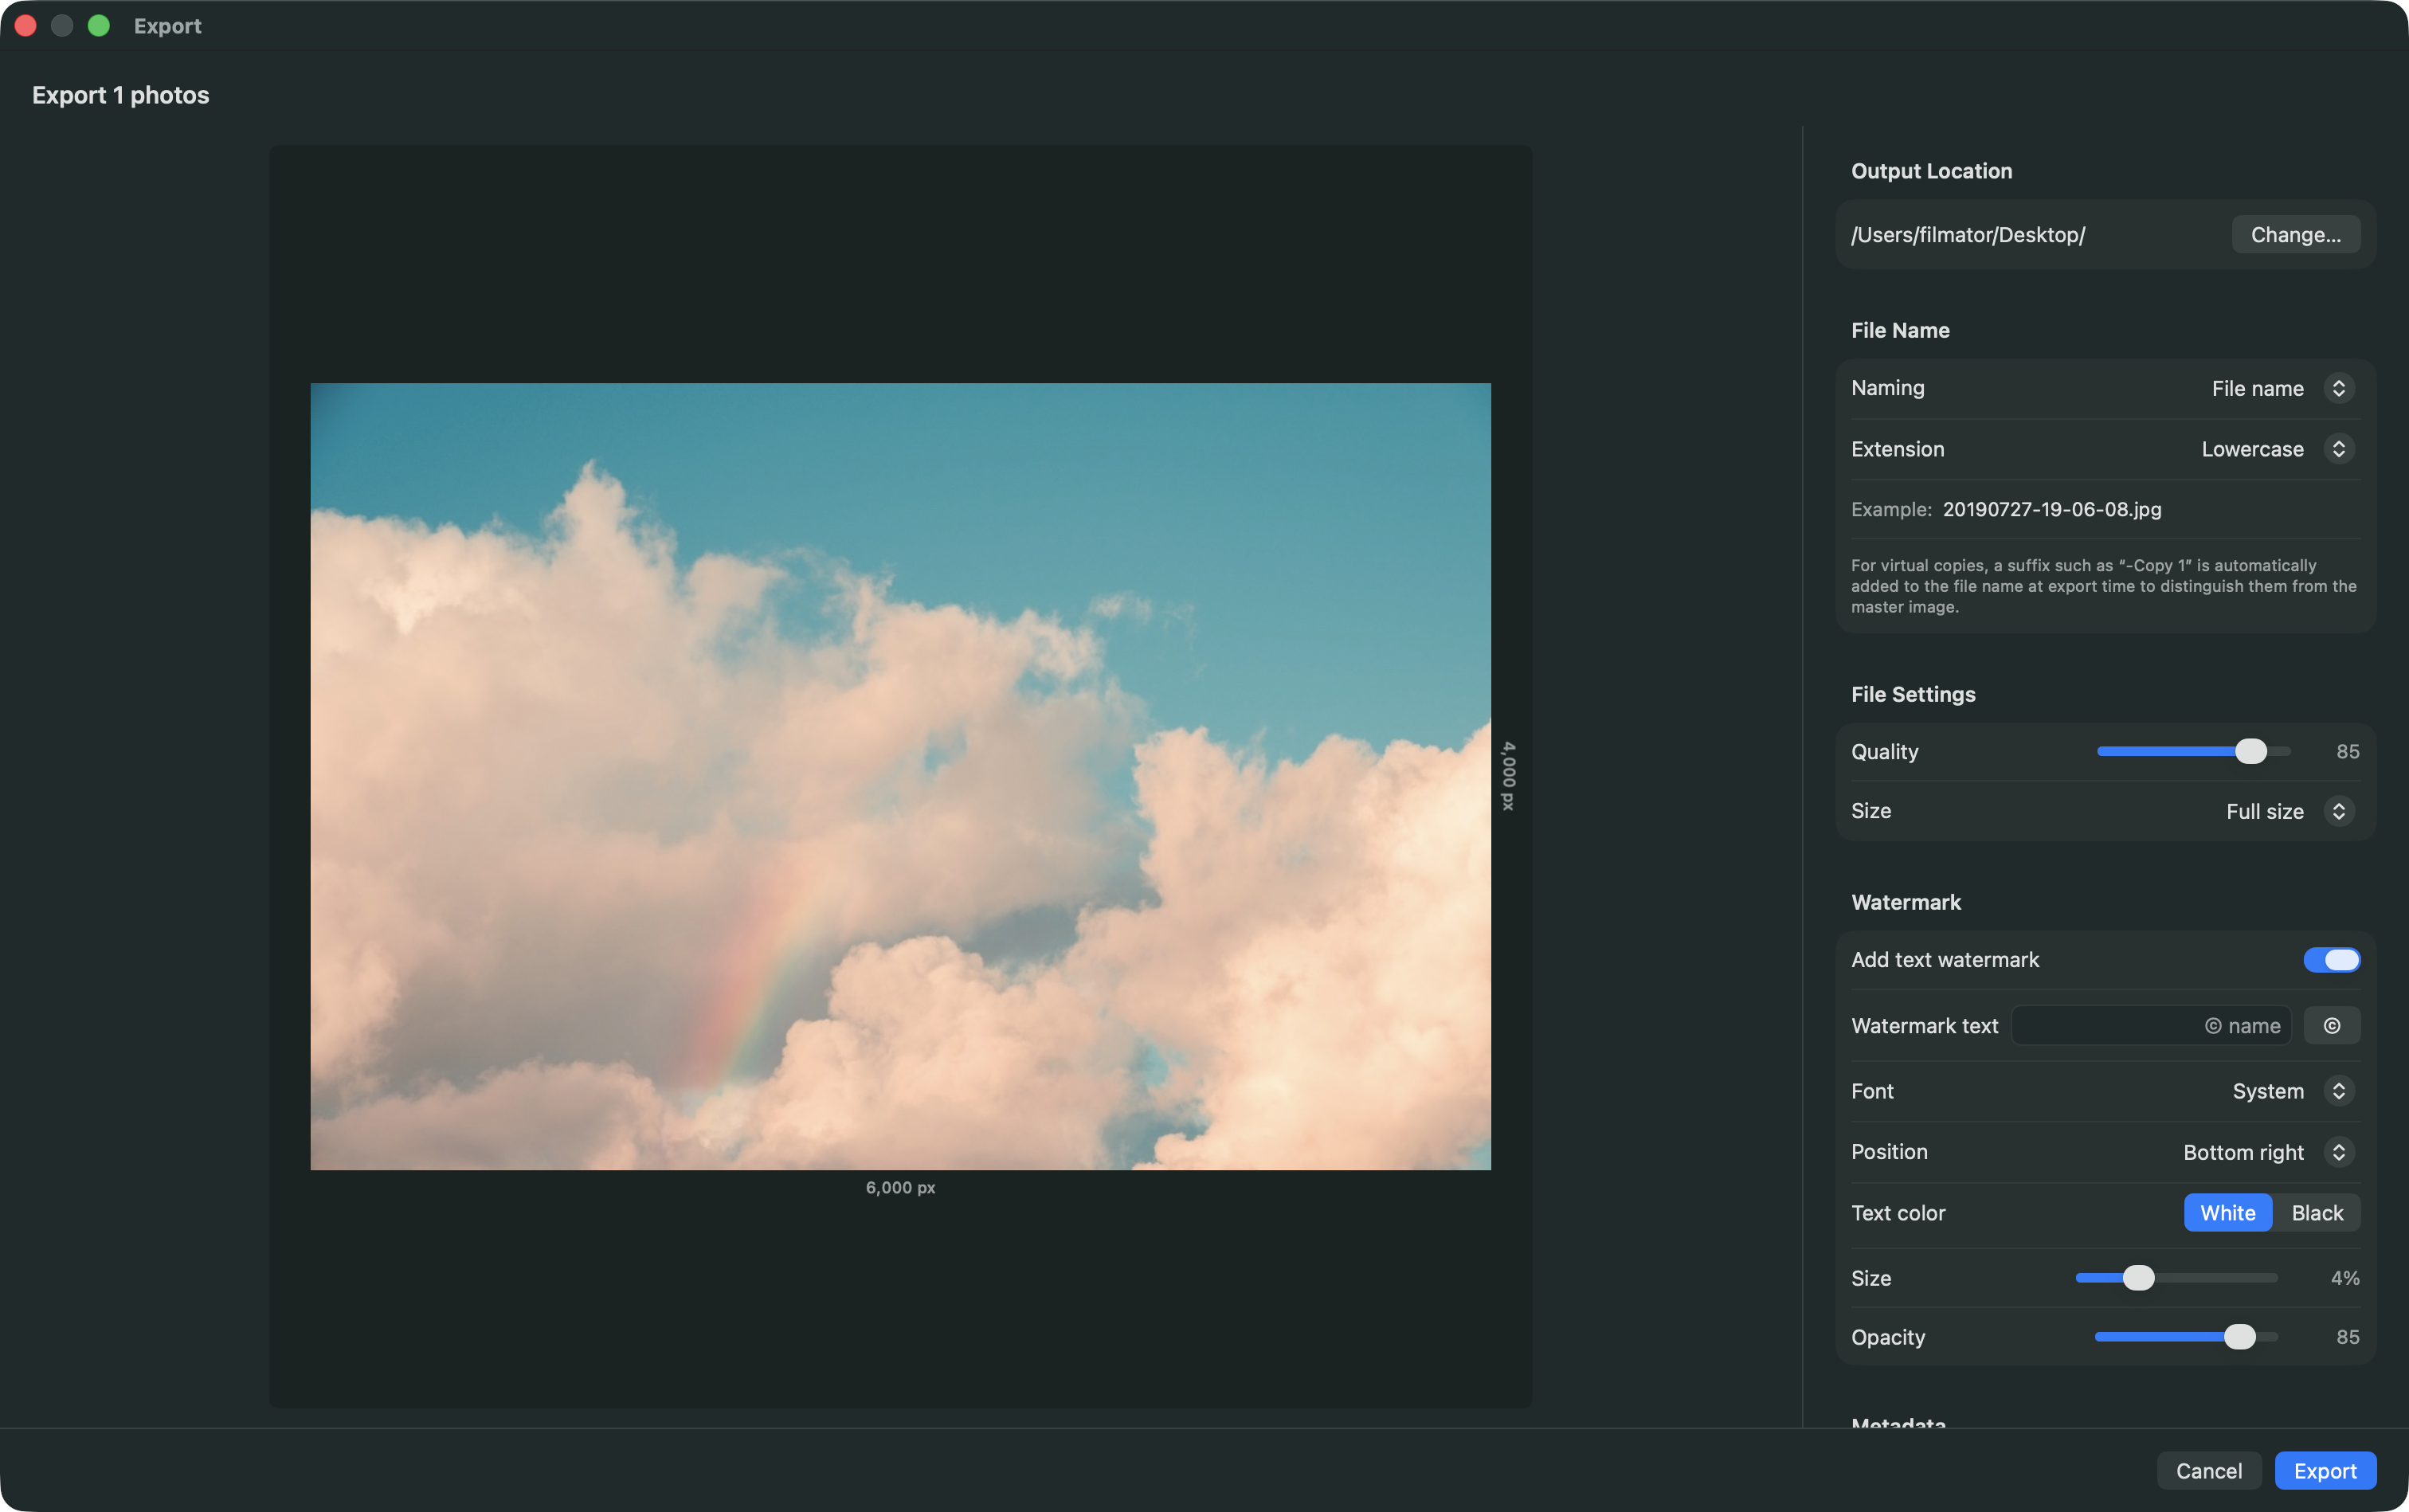
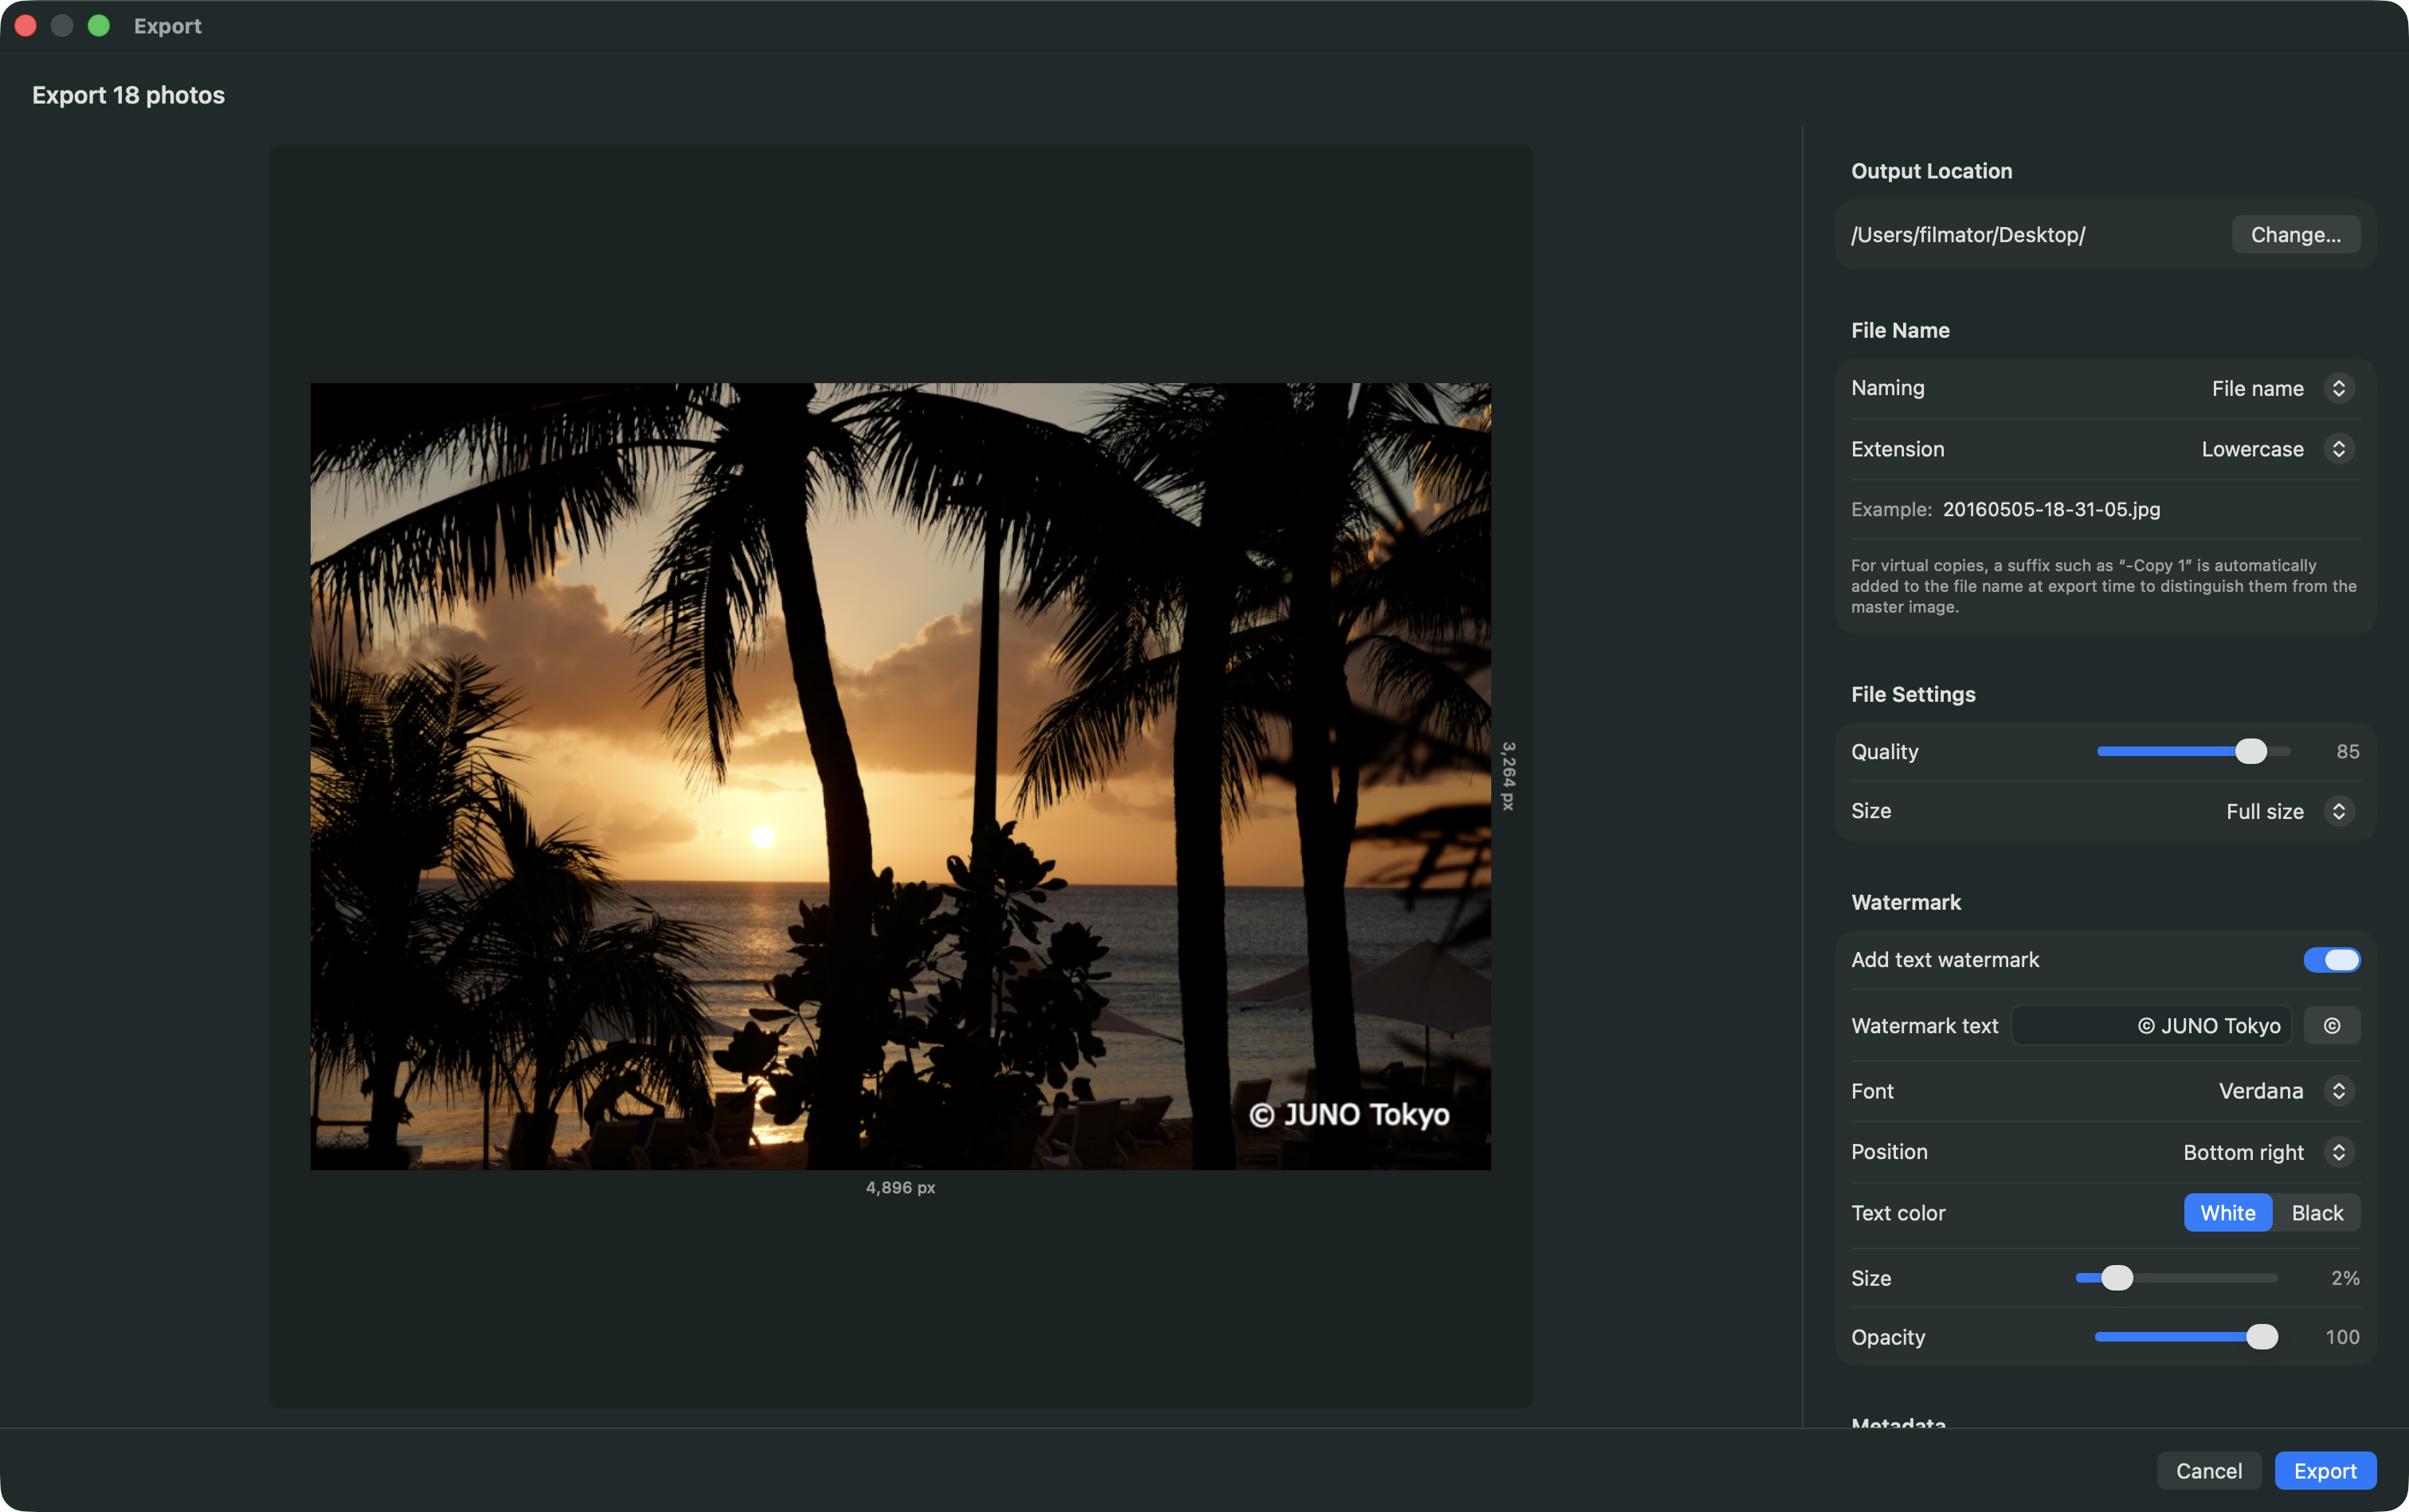
fix(JT-260): 日本語版価格を円表記に戻す / App Store 英語バッジ配置 / Export スクショ差し替え
- copy.ja の freePrice を "$0" → "¥0"、proPrice を "$19.99" → "¥3,000" に戻す
  （前 commit で誤って $ 表記に統一していた・英語版 copy.en の $0 / $19.99 は維持）。
- assets/mac-app-store-badge-en.svg を新規追加（Apple 公式 US 版 "Download on the Mac App Store"）。
  App Store バッジ img に data-i18n-src-ja / -en を付与し言語切替。
- features-export-{ja,en}.png を Jun 撮り直しの複数選択書き出し画面版に差し替え（3024×1898 維持）。

diff --git a/filmator/index.html b/filmator/index.html
@@ -69,7 +69,10 @@
           <div class="hero-cta">
             <!-- TODO(JT-260): href をリリース時に実 App Store URL へ。公式 Apple バッジ（Download on the Mac App Store）。 -->
             <a class="app-store-badge" href="#" aria-label="Mac App Store からダウンロード" data-i18n-aria="ariaAppStore">
-              <img src="assets/mac-app-store-badge.svg" alt="Mac App Store からダウンロード" height="52" data-i18n-alt="altAppStoreBadge">
+              <img src="assets/mac-app-store-badge.svg"
+                   data-i18n-src-ja="assets/mac-app-store-badge.svg"
+                   data-i18n-src-en="assets/mac-app-store-badge-en.svg"
+                   alt="Mac App Store からダウンロード" height="52" data-i18n-alt="altAppStoreBadge">
             </a>
           </div>
           <div class="trust-row" aria-label="Highlights">

diff --git a/filmator/script.js b/filmator/script.js
@@ -119,11 +119,11 @@ const copy = {
     pricingEyebrow: "Plans",
     pricingTitle: "料金",
     freeLabel: "Free",
-    freePrice: "$0",
+    freePrice: "¥0",
     freeBody:
       "累計 100 枚まで、機能的な制限なく写真を書き出すことができます。Lightroom Classic のカタログを開き、Filmator の機能をご利用ください。",
     proLabel: "Pro",
-    proPrice: "$19.99",
+    proPrice: "¥3,000",
     proBody:
       "一度の購入で、書き出し枚数の制限が無くなります。多くの写真を取り扱う場合は、Pro プランをご利用ください。",
 